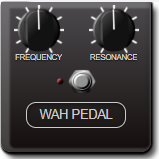
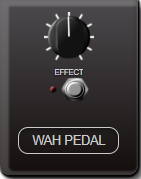
Wah Design + update JSON

diff --git a/jordan-SINTES/wah_effect/WahPedal/main.html b/jordan-SINTES/wah_effect/WahPedal/main.html
@@ -12,8 +12,8 @@
       box-shadow: 4px 5px 6px rgba(0, 0, 0, 0.7), inset -2px -2px 5px 0px rgba(0, 0, 0, 0.2), inset 3px 1px 1px 4px rgba(255, 255, 255, 0.2), 1px 0px 1px 0px rgba(0, 0, 0, 0.9), 0 2px 1px 0 rgba(0, 0, 0, 0.9), 1px 1px 1px 0px rgba(0, 0, 0, 0.9);
 
 
-      width: 80px;
-      height: 120px;
+      width: 110px;
+      height: 140px;
       display: block;
       user-select: none;
       cursor: move;
@@ -35,6 +35,7 @@
 
     webaudio-switch {
       left: -6px;
+      
     }
 
     .pedalLabel {
@@ -49,6 +50,7 @@
       user-select: none;
       font-family: helvetica;
       text-transform: uppercase;
+      margin-top: 20px;
     }
 
     .knob-label {
@@ -63,7 +65,7 @@
       overflow: hidden;
       user-select: none;
       font-family: helvetica;
-      
+      margin-top: 5px;
 
     }
 
@@ -85,7 +87,7 @@
       
       flex: 1;
       margin: 3px;
-      
+      margin-top: 10px;
     }
 
     .row {
@@ -93,15 +95,16 @@
       flex-direction: row;
       justify-content: flex-start;
       align-items: stretch;
+       
     }
   </style>
   <div class="row">
     <div class="column">
       <webaudio-knob id="knob1" class="knob" sprites="99" min="0" max="100" value="50" step="1" midilearn="true" src="https://wasabi.i3s.unice.fr/WebAudioPluginBank/img/nux_black_white_stripe.png"
-        width="40" height="40" midicc="1.27" data-role="effect" diameter="24"></webaudio-knob>
-        <span class="knob-label" id="knob1-label">EFFECT</span>
-        <webaudio-switch id="switch1" class="switch" midilearn="true" src="https://wasabi.i3s.unice.fr/WebAudioPluginBank/img/switch_1.png"
-        width="32" height="20"></webaudio-switch>
+      width="40" height="40" midicc="1.27" data-role="effect" diameter="24"></webaudio-knob>
+      <span class="knob-label" id="knob1-label">EFFECT</span>
+      <webaudio-switch id="switch1" class="switch"  midilearn="true" src="https://wasabi.i3s.unice.fr/WebAudioPluginBank/img/switch_1.png"
+      width="32" height="20"></webaudio-switch>
       <span class="pedalLabel">WAH PEDAL</span>
     </div>
   </div>
